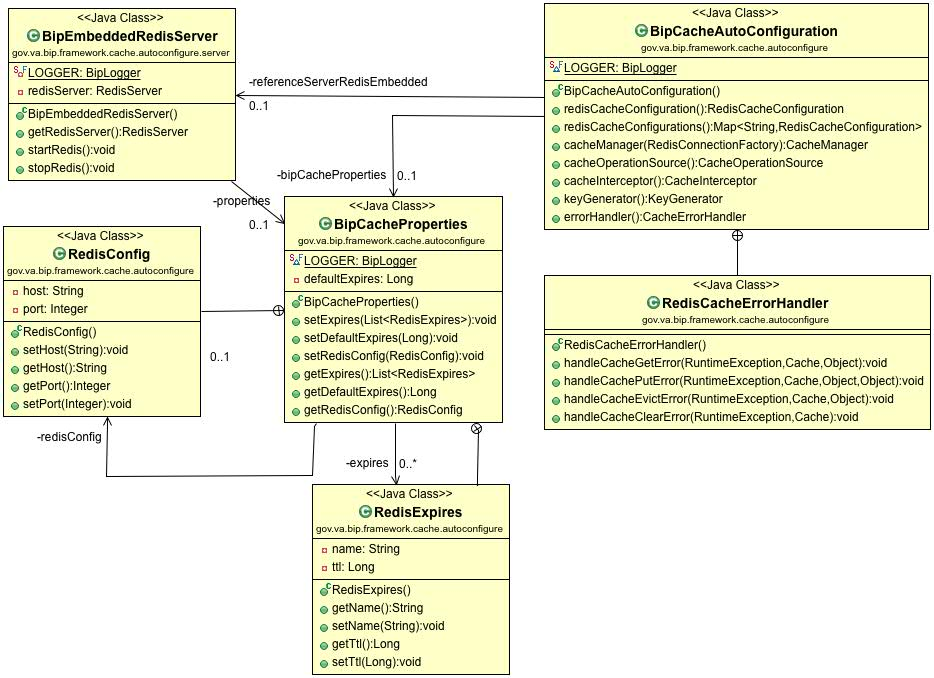
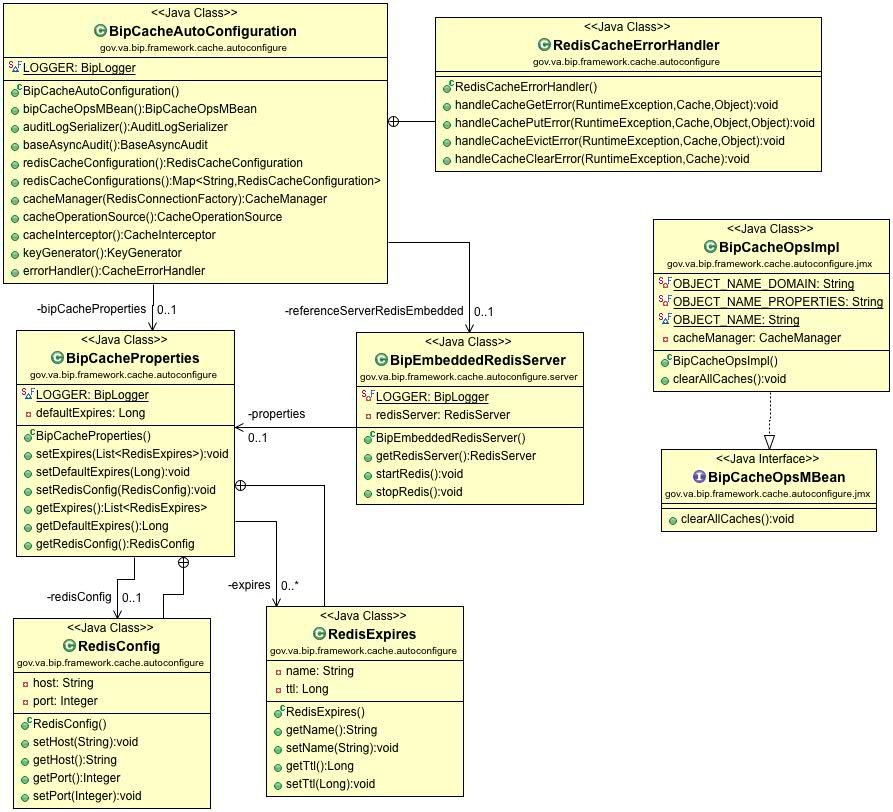
131 class uml image updates and additions

diff --git a/bip-framework-libraries/src/main/java/gov/va/bip/framework/audit/annotation/Auditable.java b/bip-framework-libraries/src/main/java/gov/va/bip/framework/audit/annotation/Auditable.java
@@ -5,6 +5,7 @@ import java.lang.annotation.Retention;
 import java.lang.annotation.RetentionPolicy;
 import java.lang.annotation.Target;
 
+import gov.va.bip.framework.aspect.AuditableAnnotationAspect;
 import gov.va.bip.framework.audit.AuditEvents;
 
 /**
@@ -23,6 +24,7 @@ import gov.va.bip.framework.audit.AuditEvents;
  * <ul>
  * <li>auditClass - name of the java Class under audit
  * </ul>
+ * Implementation is {@link AuditableAnnotationAspect}
  *
  * Created by vgadda on 8/17/17.
  */

diff --git a/bip-framework-libraries/README.md b/bip-framework-libraries/README.md
@@ -3,7 +3,7 @@ This page documents the purpose and capabilities of **OpenShift Container Platfo
 ## What is this library project for? ##
 
 This project contains interfaces, annotations and classes consumed by the application services for various functionality:
-* Marker interfaces for transfer objects to support ommon identification and behavior
+* Marker interfaces for transfer objects to support common identification and behavior
 * Rest Provider Message classes, RestTemplate
 * Audit and Performance Logging aspects
 * Utility ops for logging and handling exceptions
@@ -37,59 +37,91 @@ For more information about developing applications on the BIP Framework, see [De
 ## Class Diagrams
 
 ##### Aspects Join Points and Pointcuts Packages
-   gov.va.bip.framework.aspect <br/>
-   gov.va.bip.framework.rest.provider.aspect<br/>
-   gov.va.bip.framework.service.aspect<br/>
-   
+	gov.va.bip.framework.aspect
+	gov.va.bip.framework.rest.provider.aspect
+	gov.va.bip.framework.service.aspect
 <img src = "/images/cd-aspect-packages.jpg">
 
 ##### Auditing Package
-gov.va.bip.framework.audit
-
+	gov.va.bip.framework.audit
+	gov.va.bip.framework.audit.annotation
+	gov.va.bip.framework.audit.http
+	gov.va.bip.framework.audit.model
 <img src = "/images/cd-audit-package.jpg">
 
-##### Client Packages
-gov.va.bip.framework.client.ws
-gov.va.bip.framework.client.ws.interceptor
-gov.va.bip.framework.client.ws.interceptor.transport
+##### Auditing Package
+	gov.va.bip.framework.cache
+	gov.va.bip.framework.cache.interceptor
+<img src = "/images/cd-cache-package.jpg">
 
-<img src = "/images/bip-framework-ws-class-diagram.jpg">
+##### Client Packages
+**REST**
+
+	gov.va.bip.framework.client.rest.template
+<img src = "/images/cd-client-rest-package.jpg">
+
+**SOAP**
+
+	gov.va.bip.framework.client.ws
+	gov.va.bip.framework.client.ws.interceptor
+	gov.va.bip.framework.client.ws.interceptor.transport
+	gov.va.bip.framework.client.ws.remote
+<img src = "/images/cd-client-ws-package.jpg">
+
+##### Config Packages
+	gov.va.bip.framework.config
+<img src = "/images/cd-config-package.jpg">
 
 ##### Exception Packages
-   gov.va.bip.framework.exception <br/>
-   gov.va.bip.framework.rest.exception<br/>
-   gov.va.bip.framework.service<br/>
-   
-<img src = "/images/bip-framework-exception-class-diagram.jpg">
+	gov.va.bip.framework.exception
+	gov.va.bip.framework.exception.interceptor
+	gov.va.bip.framework.rest.exception
+	gov.va.bip.framework.security.jwt
+	gov.va.bip.framework.service
+<img src = "/images/cd-exception-package.jpg">
 
 ##### Logging Packages
-gov.va.bip.framework.log
+	gov.va.bip.framework.log
+<img src = "/images/cd-log-package.jpg">
 
-<img src = "/images/bip-framework-log-class-diagram.jpg">
+##### Messages Packages
+	gov.va.bip.framework.messages
+<img src = "/images/cd-messages-package.jpg">
+
+##### Rest Packages
+	gov.va.bip.framework.rest.exception
+	gov.va.bip.framework.rest.provider
+	gov.va.bip.framework.rest.aspect
+<img src = "/images/cd-rest-package.jpg">
 
 ##### Security Packages
-gov.va.bip.framework.security
-gov.va.bip.framework.security.model
-gov.va.bip.framework.security.util
+	gov.va.bip.framework.security
+	gov.va.bip.framework.security.model
+	gov.va.bip.framework.security.util
+<img src = "/images/cd-security-package.jpg">
 
-<img src = "/images/bip-framework-security-class-diagram.jpg">
+	gov.va.bip.framework.security.jwt
+	gov.va.bip.framework.security.jwt.correlation
+<img src = "/images/cd-security-jwt-package.jpg">
 
-gov.va.bip.framework.security.jwt
-gov.va.bip.framework.security.jwt.correlation
+##### Service Packages
+	gov.va.bip.framework.service
+	gov.va.bip.framework.service.spect
+<img src = "/images/cd-service-package.jpg">
 
-<img src = "/images/bip-framework-jwt-class-diagram.jpg">
+##### Swagger Packages
+	gov.va.bip.framework.swagger
+<img src = "/images/cd-swagger-package.jpg">
 
 ##### Transfer Packages
-gov.va.bip.framework.transfer
-gov.va.bip.framework.transfer.jaxb.adapters
-gov.va.bip.framework.transfer.transform
-
-<img src = "/images/bip-framework-transfer-class-diagram.jpg">
+	gov.va.bip.framework.transfer
+	gov.va.bip.framework.transfer.jaxb.adapters
+	gov.va.bip.framework.transfer.transform
+<img src = "/images/cd-transfer-package.jpg">
 
 ##### Validation Packages
-gov.va.bip.framework.validation
-
-<img src = "/images/bip-framework-validation-class-diagram.jpg">
+	gov.va.bip.framework.validation
+<img src = "/images/cd-validator-package.jpg">
 
 
 

diff --git a/bip-framework-test-lib/README.md b/bip-framework-test-lib/README.md
@@ -1,11 +1,11 @@
-## What is this test library project for? ##
+## What is this test library project for?
 
 BIP Test library is customized to support testing the REST based Services deployed on BIP platform. This library is configured to use broad range of operations provided by Spring REST Client – RestTemplate. Spring RestTemplate provides a convenient way to test RESTful web services. It simplifies the interaction with HTTP servers and enforces RESTful systems.
 
 ## Dependencies:
 
 Spring Rest template - Included via `spring-web` dependency.
-   
+
 	    <groupId>org.springframework</groupId>
 	    <artifactId>spring-web</artifactId>
 
@@ -15,15 +15,16 @@ cucumber-java8 - a library that makes it easier for us to write and execute para
 	   <artifactId>cucumber-java8</artifactId>
 
 
-## How to add BIP Test Library dependencies in your maven pom.xml? ##
-        
+## How to add BIP Test Library dependencies
+Add the dependency to your test projects POM file.
+
 	<dependency>
 		<groupId>gov.va.bip.framework</groupId>
 		<artifactId>bip-framework-test-lib</artifactId>
 		<version><!-- add the appropriate version --></version>
 	</dependency>
 
-## Overview of the packages ##
+## Overview of the packages
 
 Test Library uses Java - Maven platform, the REST-template for core API validations.
 
@@ -52,3 +53,7 @@ PropertiesUtil: Utility class for handling properties.
 RequestResponseLoggingInterceptor: It is an interceptor for all rest API calls to trace request and responses. This interceptor can also be used as a troubleshooting technique to trace request headers, parameter and response body.
 
 In the `bip-reference-inttest` project, `bip-framework-test-lib` is added as a dependency. This project `bip-reference-inttest` can be used as a reference for writing functional tests https://github.com/department-of-veterans-affairs/ocp-reference-spring-boot/tree/master/bip-reference-inttest
+
+## Class Diagrams
+	gov.va.bip.framework.test <br/>
+<img src="/images/cd-test-lib-package.jpg" />

diff --git a/bip-framework-parentpom/README.md b/bip-framework-parentpom/README.md
@@ -6,4 +6,4 @@ Spring Boot Version : 2.1.2.RELEASE
 
 Spring Cloud Release Train: Greenwich.RELEASE
 
-See <b>pom.xml</b> for the detailed configuration and dependency management
+See `pom.xml` for the detailed configuration and dependency management
